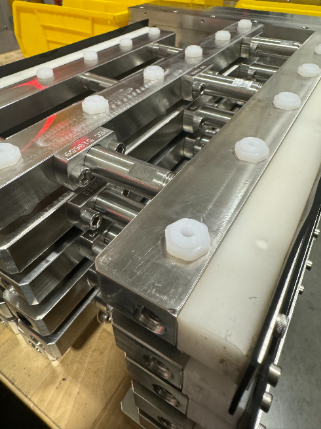
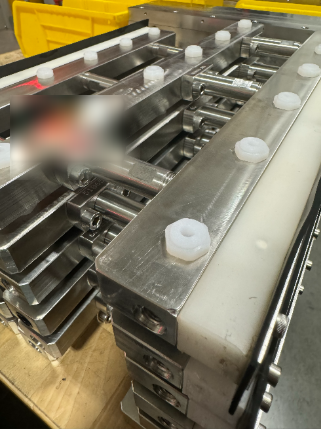
Add files via upload
portfolio upload_rev2

Changed region(s): [[0.0312, 0.2121, 0.4361, 0.4242]]

diff --git a/case-studies/new-boat.html b/case-studies/new-boat.html
@@ -31,8 +31,8 @@
 
     <section class="container case-body">
       <figure class="image-frame">
-        <img src="../assets/images/carrier-redesign/photo-in-service.png" alt="Photo of the redesigned carrier docked under the fill head assembly">
-        <figcaption>The redesigned carrier docked under the fill-head assembly during the CIP cycle.</figcaption>
+        <img src="../assets/images/carrier-redesign/baseplate-render.png" alt="Render of the redesigned carrier baseplate and support rods">
+        <figcaption>Redesigned baseplate and support rod geometry, engineered to eliminate deflection under process loading.</figcaption>
       </figure>
 
       <h2>Problem</h2>
@@ -58,12 +58,12 @@
 
       <div class="image-grid">
         <figure class="image-frame" style="margin:0;">
-          <img src="../assets/images/carrier-redesign/baseplate-render.png" alt="Render of the redesigned carrier baseplate and support rods">
-          <figcaption>Redesigned baseplate and support rod geometry, engineered to eliminate deflection under process loading.</figcaption>
+          <img src="../assets/images/carrier-redesign/photo-in-service.png" alt="Photo of the redesigned carrier docked under the fill head assembly">
+          <figcaption>The redesigned carrier docked under the fill-head assembly during the CIP cycle.</figcaption>
         </figure>
         <figure class="image-frame" style="margin:0;">
-          <img src="../assets/images/carrier-redesign/sealing-interface-detail.png" alt="Detail render of the carrier's sealing interface with the fill-head nozzles">
-          <figcaption>Detail view of the sealing interface between the carrier and fill-head nozzles during CIP.</figcaption>
+          <img src="../assets/images/carrier-redesign/sealing-interface-detail.png" alt="Detail CAD render of the redesigned carrier in place on the fill head assembly">
+          <figcaption>Detailed CAD view of the re-designed carrier in place on the fill head assembly.</figcaption>
         </figure>
       </div>
 

diff --git a/case-studies/d14-clutch-sensor-mounting.html b/case-studies/d14-clutch-sensor-mounting.html
@@ -53,12 +53,12 @@
 
       <div class="image-grid">
         <figure class="image-frame" style="margin:0;">
-          <img src="../assets/images/d14-clutch-sensor/v1-tabletop-arm-mount.png" alt="CAD render of the v1 tabletop/arm mount design">
-          <figcaption>v1 design — tabletop-attachable arm with fine-tune bracket, attached directly to the machine's moving assembly.</figcaption>
+          <img src="../assets/images/d14-clutch-sensor/v2-assembly-render.png" alt="CAD render of the complete v2 floor-standing sensor bracket assembly">
+          <figcaption>v2 design — complete floor-standing bracket assembly, ready for installation.</figcaption>
         </figure>
         <figure class="image-frame" style="margin:0;">
           <img src="../assets/images/d14-clutch-sensor/v2-render.png" alt="CAD render of the v2 floor-mounted sensor bracket positioned near the turret">
-          <figcaption>v2 design — floor-standing bracket, fully decoupled from the turret, verified for clearance in CAD before fabrication.</figcaption>
+          <figcaption>v2 design positioned near the turret, verified for clearance in CAD before fabrication.</figcaption>
         </figure>
       </div>
 
@@ -69,7 +69,7 @@
         </p>
         <div class="stat-grid">
           <div class="stat-card"><span class="big">0</span><span class="small">Mechanical-binding risk from incorrect keyway setup (eliminated by design)</span></div>
-          <div class="stat-card"><span class="big">&darr;</span><span class="small">False clutch-trip alarms caused by machine vibration</span></div>
+          <div class="stat-card"><span class="big">Near-Elimination</span><span class="small">of false clutch-trip alarms caused by machine vibration</span></div>
         </div>
       </div>
 

diff --git a/case-studies/flushing-grommet.html b/case-studies/flushing-grommet.html
@@ -30,7 +30,7 @@
     </section>
 
     <section class="container case-body">
-      <figure class="image-frame">
+      <figure class="image-frame" style="max-width:360px;">
         <img src="../assets/images/flushing-grommet/photo-produced-parts.png" alt="Photo of produced flushing grommet manifold assemblies">
         <figcaption>Finished manifold assemblies with the redesigned grommets installed, ready for the production line.</figcaption>
       </figure>
@@ -62,8 +62,8 @@
 
       <div class="image-grid">
         <figure class="image-frame" style="margin:0;">
-          <img src="../assets/images/flushing-grommet/exploded-assembly-view.png" alt="Exploded view of the original 2-piece grommet assembly">
-          <figcaption>Exploded view of the original 2-piece assembly (insert + separate seal) within the manifold.</figcaption>
+          <img src="../assets/images/flushing-grommet/exploded-assembly-view.png" alt="Exploded view of the CIP manifold assembly with the redesigned single-piece grommet">
+          <figcaption>Exploded view of the CIP manifold assembly with the redesigned single-piece grommet installed.</figcaption>
         </figure>
         <figure class="image-frame" style="margin:0;">
           <img src="../assets/images/flushing-grommet/final-single-piece-render.png" alt="Render of the final single-piece polyurethane grommet">

diff --git a/case-studies/cell-wash-infeed-upgrade.html b/case-studies/cell-wash-infeed-upgrade.html
@@ -53,16 +53,10 @@
         <li>Designed the new conveyance system so each lane can be serviced independently, without disturbing the other lanes.</li>
       </ul>
 
-      <div class="image-grid">
-        <figure class="image-frame" style="margin:0;">
-          <img src="../assets/images/cell-wash-infeed/integrated-context-render.png" alt="Render showing the infeed assembly integrated with the main cell wash machine">
-          <figcaption>The redesigned infeed integrated with the main wash machine, sliding out for independent servicing.</figcaption>
-        </figure>
-        <figure class="image-frame" style="margin:0;">
-          <img src="../assets/images/placeholder.svg" alt="Individual lane servicing detail placeholder">
-          <figcaption>Detail view showing how a single lane can be serviced independently.</figcaption>
-        </figure>
-      </div>
+      <figure class="image-frame">
+        <img src="../assets/images/cell-wash-infeed/integrated-context-render.png" alt="Render showing the current infeed design integrated with the main cell wash machine">
+        <figcaption>The current infeed design integrated with the main wash machine, shown here for reference.</figcaption>
+      </figure>
 
       <div class="outcome-panel is-progress">
         <h2>Expected Outcome</h2>

diff --git a/index.html b/index.html
@@ -105,7 +105,7 @@
         </a>
 
         <a class="case-card" href="case-studies/electrolyte-filler-maintenance-program.html">
-          <div class="card-thumb"><img src="assets/images/fill-head-cart/photo.png" alt="Fill Head Cart from the Electrolyte Filler Maintenance Program"></div>
+          <div class="card-thumb"><img src="assets/images/benchtop-leak-test/isometric-render.png" alt="Benchtop Leak Test fixture from the Electrolyte Filler Maintenance Program"></div>
           <div class="card-body">
             <span class="card-index">02 &middot; <span class="badge badge-proven">Proven</span></span>
             <h3>Electrolyte Filler Maintenance Program</h3>
@@ -149,7 +149,7 @@
         </a>
 
         <a class="case-card" href="case-studies/new-boat.html">
-          <div class="card-thumb"><img src="assets/images/carrier-redesign/photo-in-service.png" alt="Carrier Redesign docked under the fill head assembly"></div>
+          <div class="card-thumb"><img src="assets/images/carrier-redesign/baseplate-render.png" alt="Carrier Redesign baseplate and support rod geometry"></div>
           <div class="card-body">
             <span class="card-index">06 &middot; <span class="badge badge-proven">Proven</span></span>
             <h3>Carrier Redesign (CIP Leak Elimination)</h3>

diff --git a/case-studies/electrolyte-filler-maintenance-program.html b/case-studies/electrolyte-filler-maintenance-program.html
@@ -31,8 +31,8 @@
 
     <section class="container case-body">
       <figure class="image-frame">
-        <img src="../assets/images/fill-head-cart/photo.png" alt="Photo of the Fill Head Cart, part of the Maintenance Program toolkit">
-        <figcaption>The Fill Head Cart in use on the production floor &mdash; one of four custom fixtures built for this program.</figcaption>
+        <img src="../assets/images/benchtop-leak-test/isometric-render.png" alt="Isometric render of the Benchtop Leak Test fixture, part of the Maintenance Program toolkit">
+        <figcaption>The Benchtop Leak Test fixture &mdash; one of four custom fixtures built for this program.</figcaption>
       </figure>
 
       <h2>Problem</h2>
